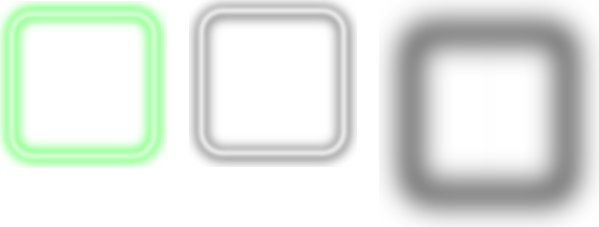
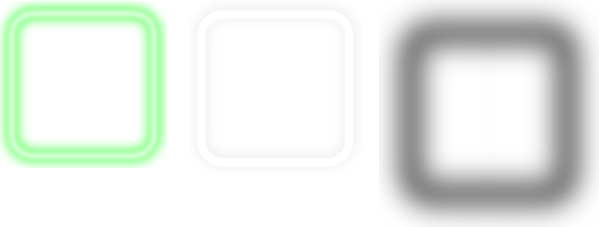
0.251

Changed region(s): [[0.3005, 0.0, 0.601, 0.7401]]

diff --git a/src/theme/p3/creator.js b/src/theme/p3/creator.js
@@ -152,13 +152,18 @@ class AutopCreator {
 		//grs_rect.strokeRect(0, 0, button_width, button_height).generateTexture('button_bounds', button_width, button_height); 
 		//b.button.texture.frames[b.button.texture.firstFrame].customData
 		for(let i = 0; i < this.cfg.maxNumPaths; i++) {
-			let _btn = this.sc.add.image(0, 0, 'path_buttons', 'button_on').setInteractive().setVisible(false).setName('button_path_'+i).setScrollFactor(0).setDisplaySize(button_width, button_height);
+			let _btn = this.sc.add.image(0, 0, 'path_buttons', 'button_on').setInteractive().setVisible(false).setName('button_path_'+i).setScrollFactor(0).setDisplaySize(button_width, button_height).setDepth(-10);
 			if(this.cfg.controls.button_path_tint) _btn.setTint(this.cfg.controls.button_path_tint);			
 			this.sc.registry.get('buttons').push({button: _btn});
+			let _cdata = this.sc.textures.get('path_buttons').frames['button_sh'].customData;
+			let _sh = this.sc.add.image(0, 0, 'path_buttons', 'button_sh').setVisible(false).setName('button_sh_'+i).setScrollFactor(0).setDisplaySize(button_width * (1 / _cdata.w_factor), button_height * (1 / _cdata.h_factor)).setDepth(-11);
+			this.sc.registry.get('buttons')[this.sc.registry.get('buttons').length - 1].shadow = _sh;
+			this.sc.registry.get('buttons')[this.sc.registry.get('buttons').length - 1].shadow_data = _cdata;			
 			//this.sc.registry.get('buttons').push({button: this.sc.add.image(0, 0, 'button_bounds').setInteractive().setVisible(false).setName('button_path_'+i)});			
 		}
 		this.sc.lib.activate_path_buttons(2);//tmp
 		this.sc.registry.get('buttons')[1].button.setVisible(false);//tmp
+		this.sc.registry.get('buttons')[1].shadow.setVisible(false);
 		/*for(let i = 0; i < this.sc.registry.get('buttons').length; i++) {
 			this.sc.registry.get('buttons')[i].button.setScrollFactor(0)
 //			this.sc.cameras.main.ignore(this.sc.registry.get('buttons')[i].button);

diff --git a/src/lib/lib.js b/src/lib/lib.js
@@ -217,7 +217,7 @@ class AutopLIB {
 		} else {
 			x = Math.round((this.sc.sys.game.config.width - this.cfg.controls.button_gap * (num - 1) - button_width * num) * 0.5);
 		}
-		let y = Math.round(this.sc.sys.game.config.height - this.cfg.heightControls * 0.5);
+		let y = Math.round(this.sc.sys.game.config.height - this.cfg.heightControls * this.cfg.controls.button_offset_coeff);
 		for(let i = 0; i < this.sc.registry.get('buttons').length; i++) {
 			if(i >= num) {
 				if(this.sc.registry.get('buttons')[i].path && this.sc.registry.get('buttons')[i].path.destroy) {
@@ -225,9 +225,14 @@ class AutopLIB {
 					this.sc.registry.get('buttons')[i].path = false;
 				}
 				this.sc.registry.get('buttons')[i].button.setVisible(false);
+				if(this.cfg.controls.button_shadow) this.sc.registry.get('buttons')[i].shadow.setVisible(false);
 			} else {
-				this.sc.registry.get('buttons')[i].button.setPosition(x + (button_width + this.cfg.controls.button_gap) * i, y).setVisible(true);
+				let _x = x + (button_width + this.cfg.controls.button_gap) * i;
+				this.sc.registry.get('buttons')[i].button.setPosition(_x, y).setVisible(true);
 				this._set_button_bounds('buttons', i);
+				
+				let _cdata = this.sc.registry.get('buttons')[i].shadow_data;
+				if(this.cfg.controls.button_shadow) this.sc.registry.get('buttons')[i].shadow.setPosition(_x + _cdata.w_factor * _cdata.w_offset, y + _cdata.h_factor * _cdata.h_offset).setVisible(true);				
 			}
 		}
 

diff --git a/src/theme/p3/config.js b/src/theme/p3/config.js
@@ -2,6 +2,7 @@
 let _config = {	
 	playerWidthHeight: [34, 34],
 	rtreeCoeff: 0.3,
+	heightControlsRate: 0.25,
 	showPaths: true,
 	show_path: {
 		styles: [
@@ -91,18 +92,20 @@ let _config = {
 		button_bounds_style: [4, 0xffffff, 1], //[4, 0x890021, 1],
 		//button_path_style: [20, 0xdeedde, 0.75], //[20, 0xff0000, 1]
 		//button_path_style: [20, 0x719b71, 1], //[20, 0xff0000, 1]
-		button_path_style: [20, 0xbabdba, 1], //[20, 0xff0000, 1]
+		button_path_style: [20, 0xffffff, 1], //[20, 0xff0000, 1]
 		button_path_styles_add: [
 			//[55, 0x267226, 0.35]
-			[50, 0x444d44, 0.35]
+			[50, 0x666f66, 0.35]
 		],
 		//button_path_path_tint: 0xf5f5f5,
 		//button_path_tint: 0xc5c5c5,
+		button_shadow: true,
 		button_height: 0.9,
+		button_offset_coeff: 0.75,
 		button_gap: 50,
 		button_disabled_alpha: 0.4,
 		pause_button_x_position: 0.2,
-		path_in_button_x_offset: -3
+		path_in_button_x_offset: 0, //-3
 	}
 }
 

diff --git a/src/config/global.js b/src/config/global.js
@@ -1,6 +1,6 @@
 
 export let _config_global = {
-		v: '0.250',
+		v: '0.251',
 		theme_name: 'p3',
 		levels : [
 			{},
